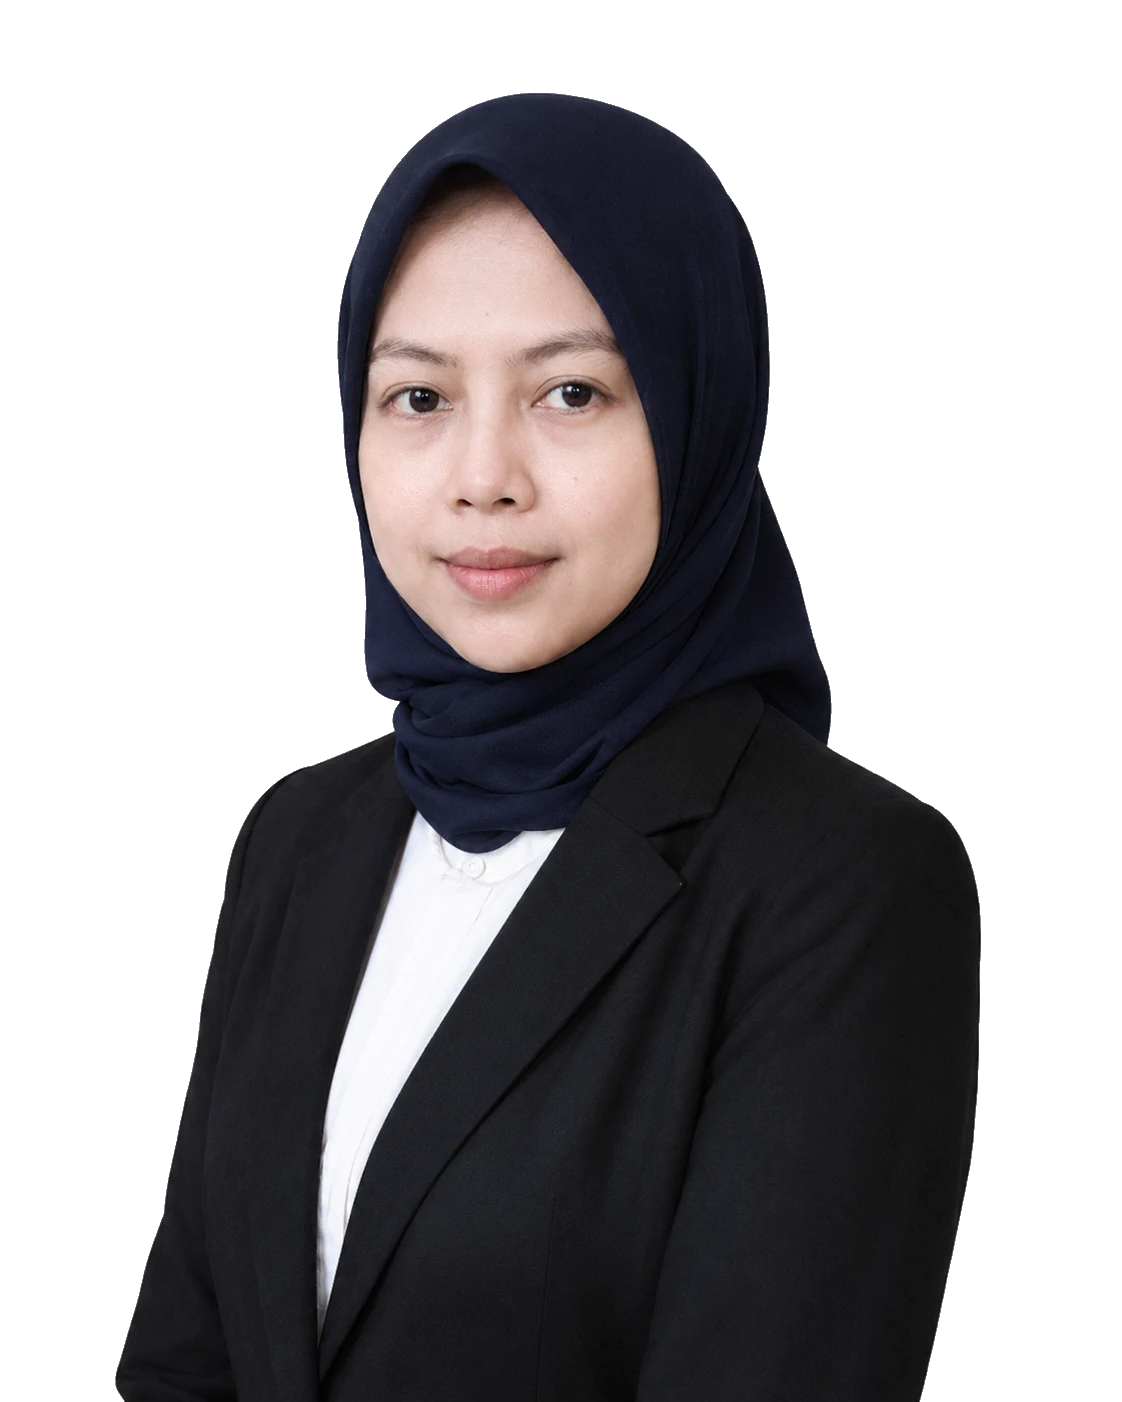
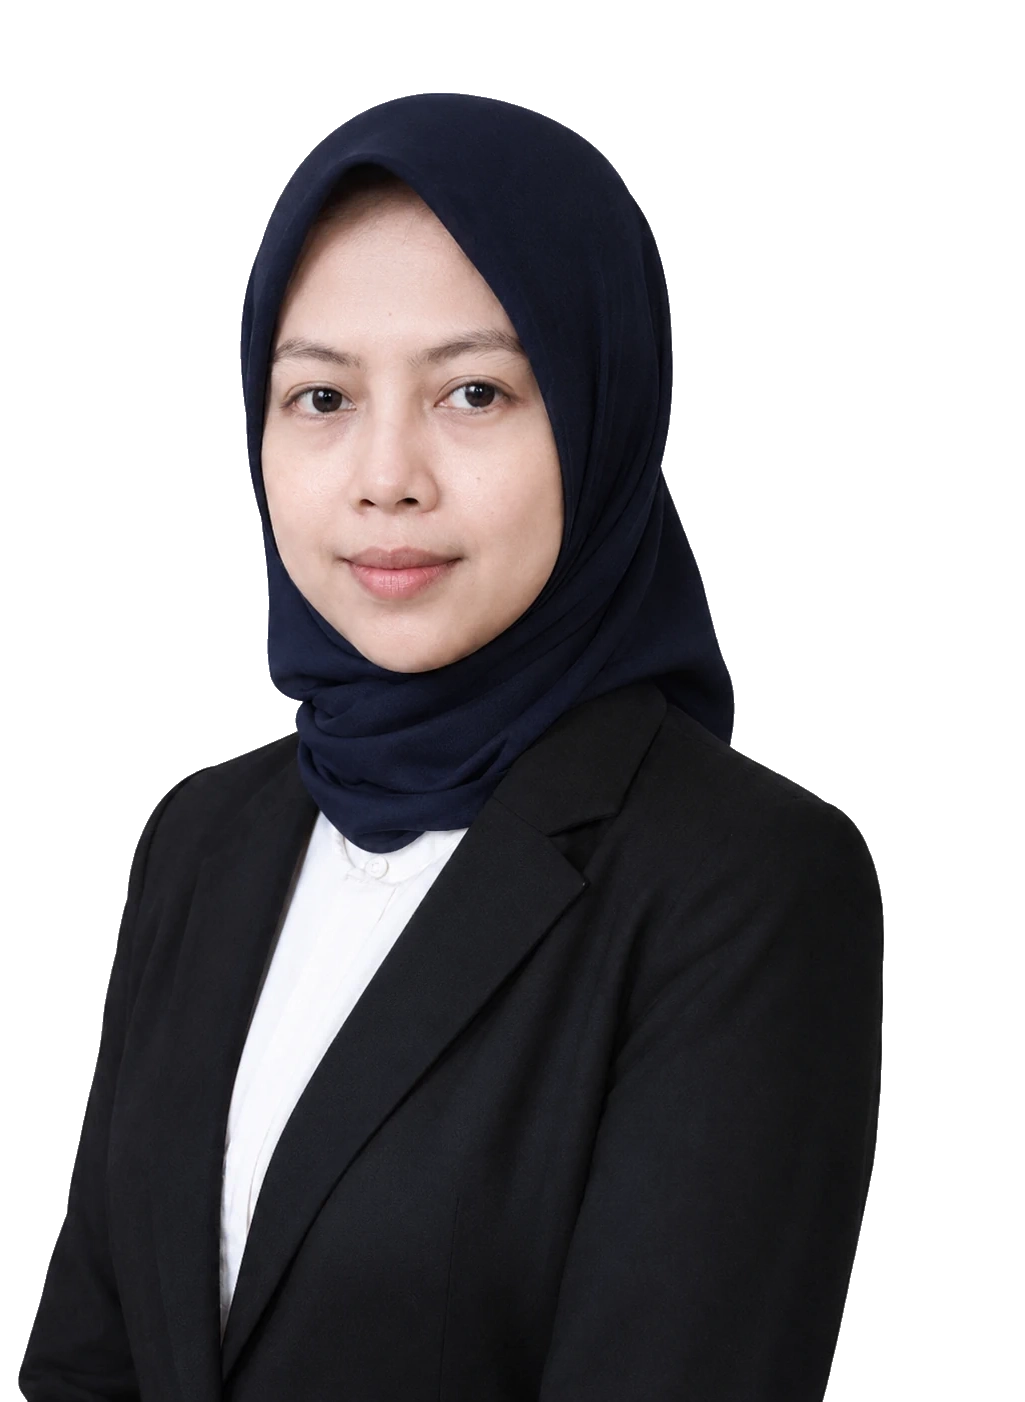
copywriting pathways

diff --git a/src/data/pathways.ts b/src/data/pathways.ts
@@ -55,7 +55,7 @@ export const pathways: Pathway[] = [
     id: "jalur-beasiswa",
     name: "Scholarship Pathway",
     description:
-      "Scholarship program for students with academic, non-academic, and content creator achievements. Fee reduction up to 100%.",
+      "Scholarship program for students with academic, non-academic, and content creator achievements. Fee reduction up to 50%.",
     icon: "award",
     scholarships: [
       {

diff --git a/.astro/types.d.ts b/.astro/types.d.ts
@@ -1,2 +1,1 @@
 /// <reference types="astro/client" />
-/// <reference path="content.d.ts" />